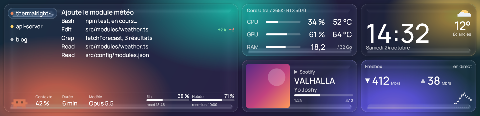
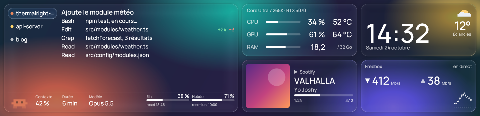
fix(verre): les reflets éclairent le bord du verre, plus de ligne à l'intérieur des panneaux
Les trois lumières étroites de FS_GLASS brillaient là où la pente du biseau leur fait face, à environ
0,45 × zRadius du bord : sur un grand panneau, une ligne droite le long du bord bas (et une plus faible
en haut), qui se lisait comme une seconde pastille avec sa propre réfraction. Elles éclairent maintenant
le bord lui-même, sur la partie du contour tournée vers elles, avec les mêmes directions et les mêmes
poids. La lumière large (spB) ne change pas. La vignette du thème est refaite.

Changed region(s): [[0.0312, 0.9052, 1.0, 0.9569], [0.5, 0.4397, 0.9688, 0.4655], [0.0, 0.1034, 0.125, 0.1552]]

diff --git a/tests/Trofeo.Core.Tests/LiquidGlassEffectTests.cs b/tests/Trofeo.Core.Tests/LiquidGlassEffectTests.cs
@@ -156,6 +156,28 @@ public class LiquidGlassEffectTests
     }
 
     [Fact]
+    public void Specular_LightsTheRim_NoLineInsideAWidePanel()
+    {
+        // Un panneau large, comme une case de module : avec la normale du biseau, la lumière du bas de FS_GLASS dessinait
+        // une ligne droite à environ 18 px du bord bas (0,45 × zRadius), qui se lisait comme une seconde pastille.
+        var panel = SKRect.Create(100, 100, 800, 200);
+        using var scene = Solid(new SKColor(40, 40, 40));
+        using var matte = Glass(scene, Neutral, panel);
+        using var shiny = Glass(scene, Neutral with { Specular = 1f }, panel);
+
+        int Gain(int y) => shiny.GetPixel(400, y).Red - matte.GetPixel(400, y).Red;
+        var center = Gain(100);
+        for (var inset = 6; inset <= 40; inset++)
+        {
+            var gain = Gain(199 - inset);
+            Assert.True(gain <= center + 15, $"à {inset} px du bord bas, le reflet ajoute {gain} (centre : {center})");
+        }
+
+        // Le reflet est sur le bord lui-même, à 1,5 px.
+        Assert.True(Gain(198) > center + 40, $"bord bas {Gain(198)}, centre {center}");
+    }
+
+    [Fact]
     public void Chroma_SplitsChannelsAtEdges()
     {
         using var stripes = Stripes();
